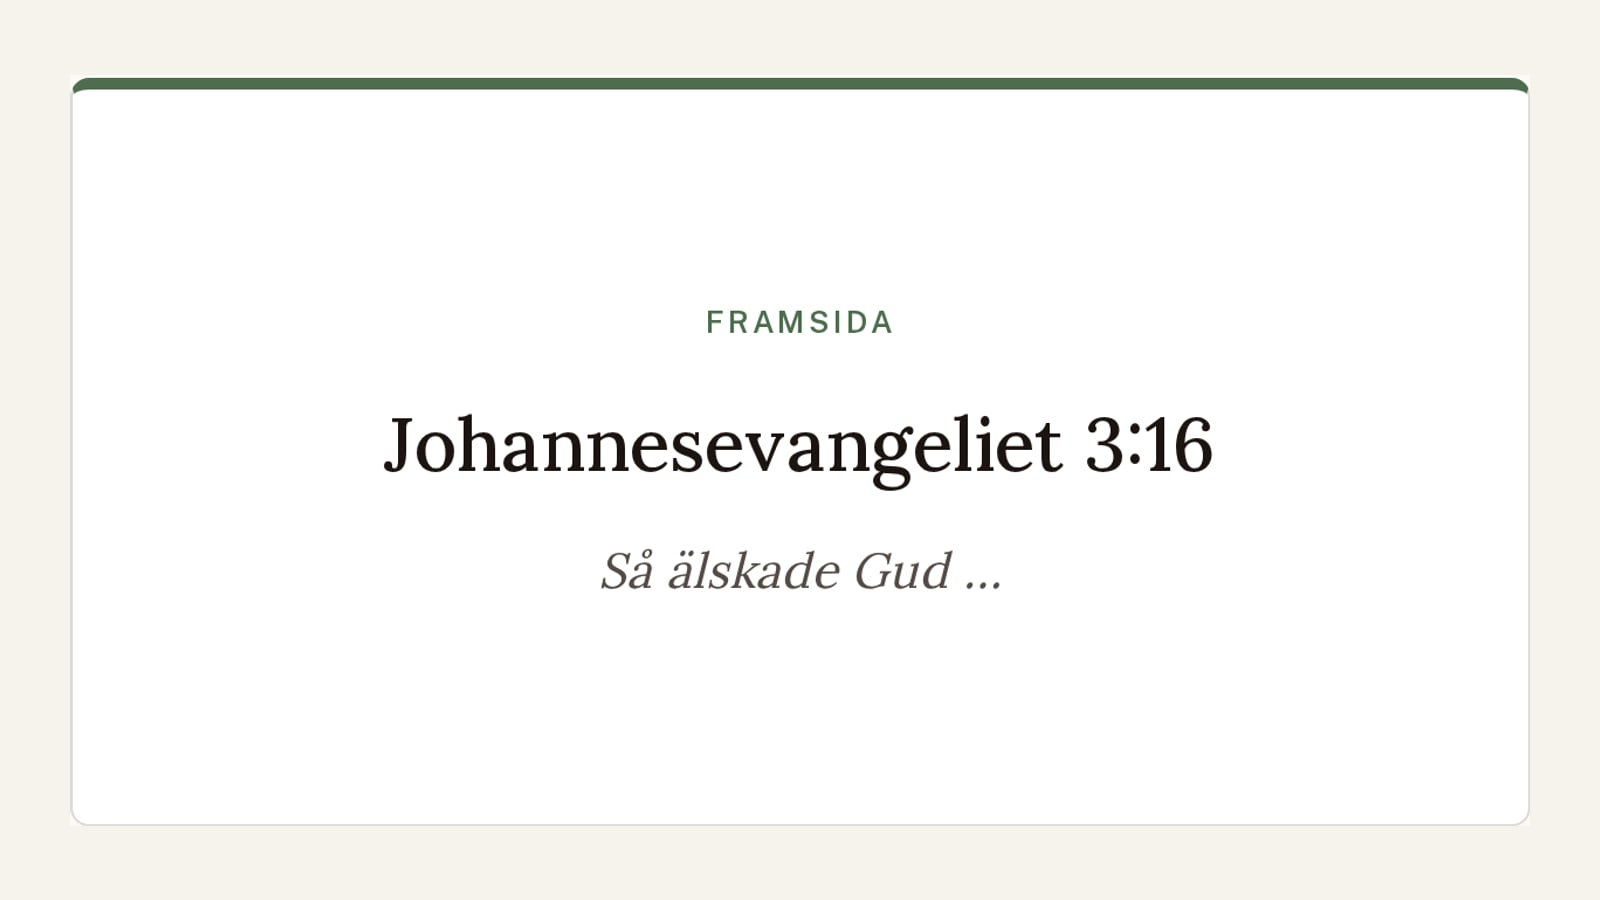
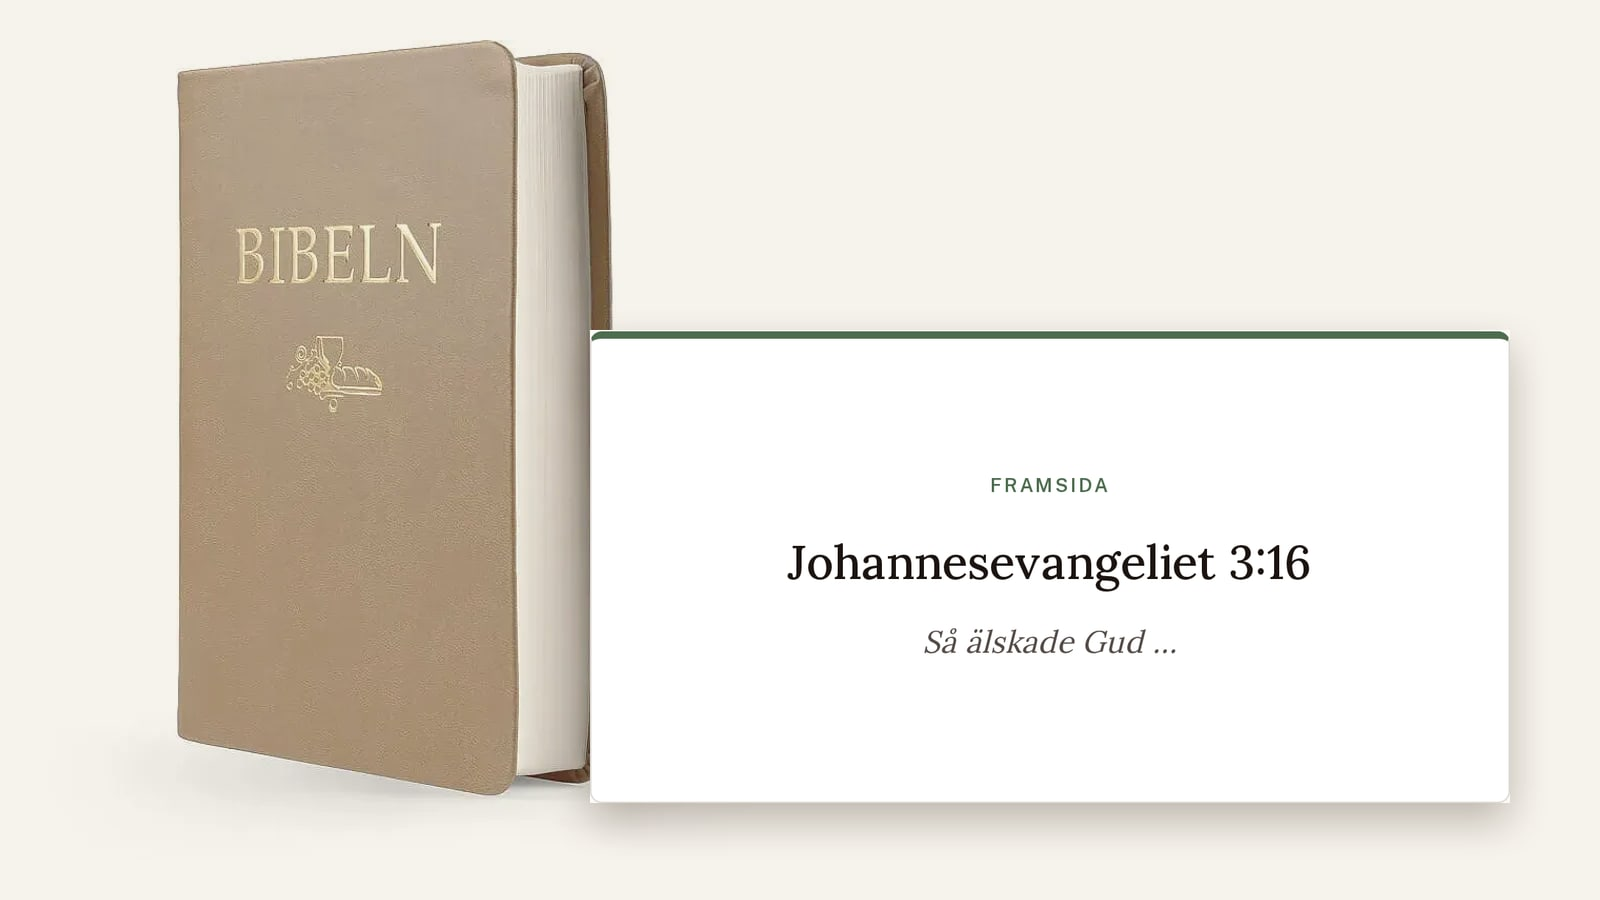
Aktuellt: bibelbild i kortbilden för Memorera bibelord
Claude-Session: https://claude.ai/code/session_0137K5f5Pwpt9WiC1f3X1EFN

Changed region(s): [[0.0312, 0.0311, 0.9688, 0.9333], [0.5938, 0.6844, 0.7188, 0.7467]]

diff --git a/components/AktuelltSection.tsx b/components/AktuelltSection.tsx
@@ -44,7 +44,7 @@ const CARDS: Card[] = [
   {
     key: "bibelvers",
     image: "/images/bibelvers-card.jpg",
-    alt: "Ett verskort med Johannesevangeliet 3:16 och orden ”Så älskade Gud …”",
+    alt: "En bibel bredvid ett verskort med Johannesevangeliet 3:16 och orden ”Så älskade Gud …”",
     title: "Nytt verktyg: Memorera bibelord",
     description: "Vill du bära Guds ord med dig i vardagen? Spara de bibelord du vill lära dig utantill som kort du kan vända. Framsidan visar början av versen och baksidan hela. Välj bland 50 kända bibelord eller lägg till egna, och öva i ordning eller slumpvis.",
     cta: { label: "Testa här", href: "/bibelvers" },
